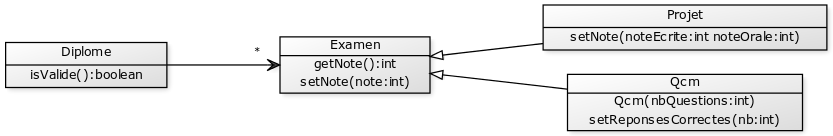
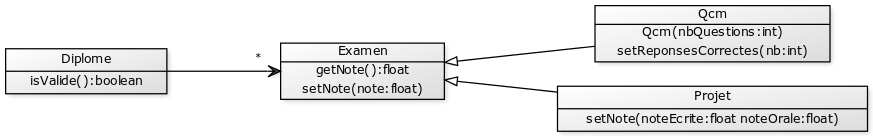
correction du diagramme de classe pour l'exo sur les diplômes et ajout de l'exo bonus

Changed region(s): [[0.0, 0.0294, 0.9988, 0.7647], [0.593, 0.5294, 0.9988, 1.0], [0.0, 0.2941, 0.2185, 0.3235]]

diff --git a/source/relations_entre_objets.rst b/source/relations_entre_objets.rst
@@ -829,7 +829,32 @@ Exercice
   Réalisez les implémentations de ces classes en Java. Écrivez une méthode **main**
   qui crée une instance de *Diplome*, y ajoute tous les types d'examen de manière
   à ce que le diplôme soit validé (la méthode *Diplome.isValide* retourne **true**).
-  
+
+
+.. only:: not epsi
+
+  .. topic:: Diplôme et examens (Bonus)
+    :class: exercice
+
+    Reprenez l'exercice précédent et ajoutez une nouvelle classe : *Appreciation*.
+    La classe *Appreciation* est un nouveau type d'examen. Une instance de la
+    classe *Appreciation* déclare une méthode pour positionner une des
+    appréciations suivantes : "non acquis", "en cours d'acquisition", "acquis".
+    On associe une note à chaque valeur d'appréciation :
+    
+    ====================== ====
+         Appréciation      Note
+    ====================== ====
+    non acquis             5
+    en cours d'acquisition 10
+    acquis                 15
+    ====================== ====
+    
+    Vérifiez que cette nouvelle classe peut être utilisée dans le système de
+    remise de diplôme. Pour cela ajoutez, des appréciations à une instance de la
+    classe Diplôme et vérifiez que le système fonctionne toujours comme attendu.
+
+
 .. _Object: https://docs.oracle.com/javase/8/docs/api/java/lang/Object.html
 .. _toString: https://docs.oracle.com/javase/8/docs/api/java/lang/Object.html#toString--
 .. _equals: https://docs.oracle.com/javase/8/docs/api/java/lang/Object.html#equals-java.lang.Object-
